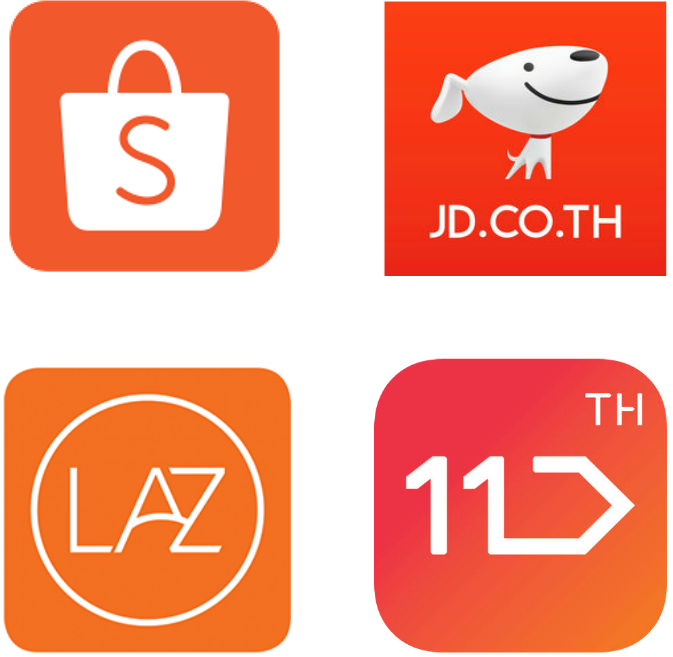
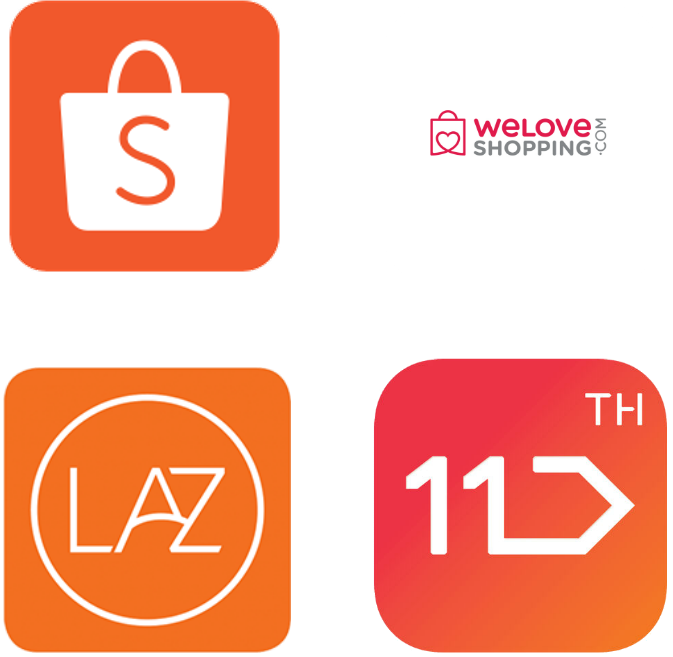
change JD to WeLoveShopping

Changed region(s): [[0.5617, 0.0, 0.9985, 0.4262]]

diff --git a/public/index.html b/public/index.html
@@ -157,7 +157,7 @@
                             <div class="home_text">
                                 <h1 class="text-white">
                                     ขายสินค้าผ่าน <strong>Lazada</strong>
-                                    , <strong>Shopee, JD</strong>
+                                    , <strong>Shopee, WeLoveShopping</strong>
                                     , <strong>11 Street</strong>
                                     ด้วย คลิกเดียว !
                                 </h1>
@@ -203,7 +203,7 @@
                                 <h2>บริการของเรา</h2>
                                 <h5>บริการของเราช่วยให้คุณลงประกาศขายสินค้าบน <strong>Lazada</strong>
                                     , <strong>Shopee</strong>
-                                    , <strong>JD Central</strong>
+                                    , <strong>WeLoveShopping Central</strong>
                                     , <strong>11 Street</strong> ได้ง่ายๆ
                                     ได้ผ่านเว็บเราเว็บเดียว
                                     ทำให้คุณไม่ต้องเสียเวลาไปลงประกาศขายสินค้าหลายรอบกับแต่ละเว็บไซต์
@@ -238,7 +238,7 @@
                                 <div class="f_item_text">
                                     <h3>สินค้าของคุณจะถูกลงประกาศขายใน <strong>Lazada</strong>
                                         , <strong>Shopee</strong>
-                                        , <strong>JD Central</strong>
+                                        , <strong>WeLoveShopping Central</strong>
                                         , <strong>11 Street</strong> แบบอัตโนมัติ</h3>
                                     <!-- <p>ลองนึกภาพว่าคุณต้องไปเรียนรู้วิธีการใช้งาน และต้องไปสมัครขายสินค้าในแพลตฟอร์มต่างๆสิ
                                         แค่คิดก็เหนื่อยแล้ว FastSell ช่วยให้คุณขายสินค้าบนแฟลตฟอร์มเหล่านั้นได้ด้วยคลิกเดียว
@@ -293,7 +293,7 @@
                                         สินค้าของคุณจะไปปรากฎในเว็บไซต์
                                         E-Commerce ต่างๆที่มีผู้เข้าชมหลายล้านคน เช่น <strong>Lazada</strong>
                                         , <strong>Shopee</strong>
-                                        , <strong>JD Central</strong>
+                                        , <strong>WeLoveShopping Central</strong>
                                         , <strong>11 Street</strong> แบบอัตโนมัติ
                                     </p>
                                 </div>
